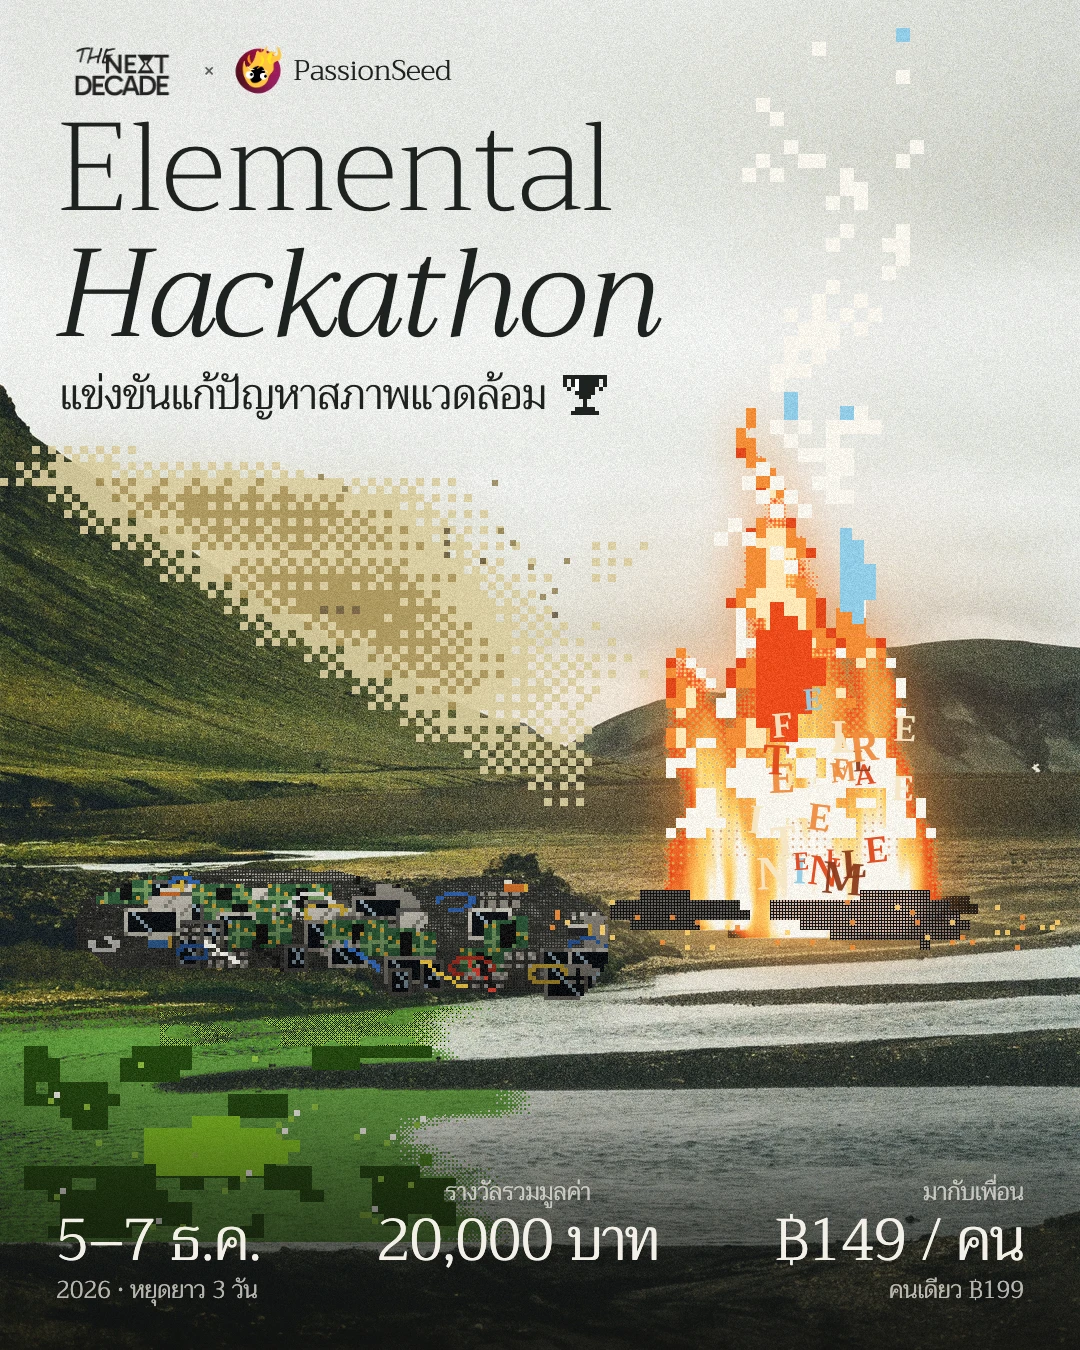
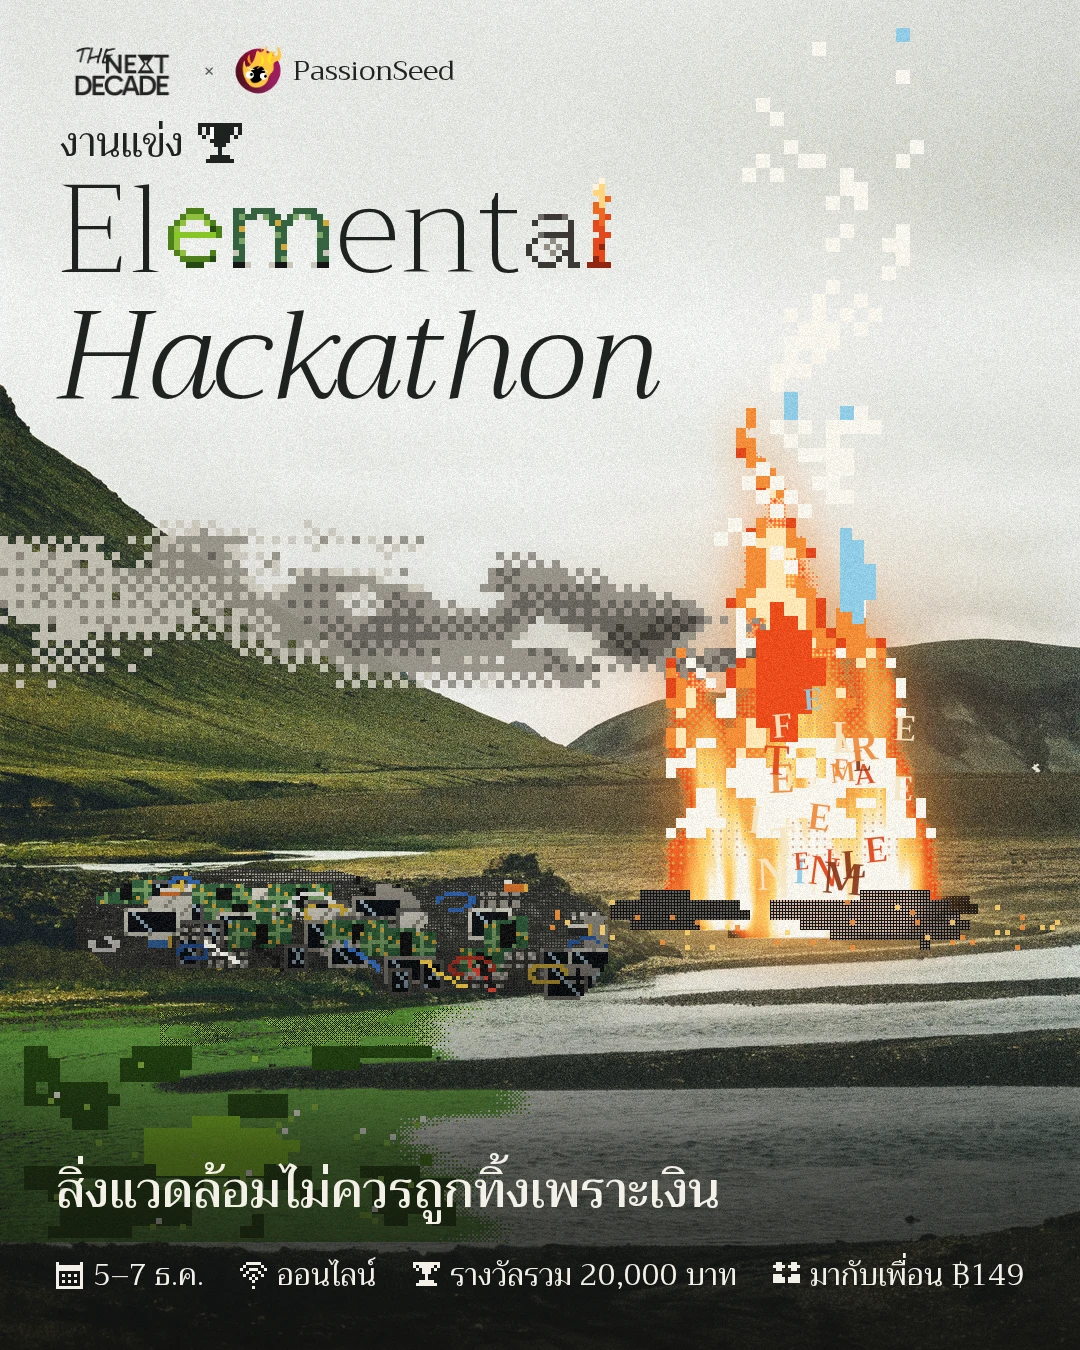
feat(hackathon): the key poster takes the latest layout: the line at the bottom over one row of facts
The line สิ่งแวดล้อมไม่ควรถูกทิ้งเพราะเงิน moves from under the title to the
dark ground at the bottom, in cream, over one row of four facts with pixel
icons (dates, online, prize total, friend price), as on the poster that
ends the teasers. The exported sheets are made again from it.

diff --git a/components/hackathon/poster/elemental/ElementalKeyPoster.tsx b/components/hackathon/poster/elemental/ElementalKeyPoster.tsx
@@ -1,6 +1,4 @@
 import { Trirong } from "next/font/google";
-import type { ReactNode } from "react";
-
 import { EL, EL_FONT } from "./brand";
 import { ELEMENTAL, prizeTotal, thaiDayRange } from "./facts";
 
@@ -15,7 +13,7 @@ import { ELEMENTAL, prizeTotal, thaiDayRange } from "./facts";
  */
 
 const trirong = Trirong({
-  weight: ["200", "300", "600"],
+  weight: ["200", "300", "400", "500", "600"],
   style: ["normal", "italic"],
   subsets: ["thai", "latin"],
   variable: "--font-trirong",
@@ -132,30 +130,32 @@ function GlyphLetter({ ch, el, on }: { ch: string; el: GlyphElement; on: boolean
   );
 }
 
-function PixelTrophy({ cell }: { cell: number }) {
-  const w = TROPHY[0].length;
-  const h = TROPHY.length;
+/** Pixel art from rows of characters, one cell per character. */
+function Pixels({ rows, fill, cell }: { rows: readonly string[]; fill: Record<string, string>; cell: number }) {
+  const w = rows[0].length;
+  const h = rows.length;
   return (
     <svg width={w * cell} height={h * cell} viewBox={`0 0 ${w} ${h}`} shapeRendering="crispEdges" aria-hidden="true" style={{ display: "block", flex: "none" }}>
-      {TROPHY.flatMap((row, y) =>
-        Array.from(row).map((c, x) => (TROPHY_FILL[c] ? <rect key={`${x}-${y}`} x={x} y={y} width={1} height={1} fill={TROPHY_FILL[c]} /> : null)),
-      )}
+      {rows.flatMap((row, y) => Array.from(row).map((c, x) => (fill[c] ? <rect key={`${x}-${y}`} x={x} y={y} width={1} height={1} fill={fill[c]} /> : null)))}
     </svg>
   );
 }
 
-/**
- * One of the three facts at the bottom: a small line, the big number, a
- * small line. Three facts, three sizes, so the eye knows what leads.
- */
-function Fact({ above, big, below, align = "left" }: { above?: ReactNode; big: ReactNode; below?: ReactNode; align?: "left" | "center" | "right" }) {
+/** The small icons in the facts row, 9x9. */
+const ICON = {
+  date: ["#.......#", "#########", "#########", "#.......#", "#.#.#.#.#", "#.......#", "#.#.#.#.#", "#.......#", "#########"],
+  online: ["..#####..", ".#.....#.", "#..###..#", "..#...#..", ".#..#..#.", "...#.#...", "....#....", ".........", "....#...."],
+  prize: ["#########", "#.#####.#", ".#.###.#.", "...###...", "....#....", "....#....", "..#####..", ".#######.", "........."],
+  friends: [".##...##.", "####.####", ".##...##.", ".........", "###...###", "####.####", "####.####", ".........", "........."],
+} as const;
+
+/** One fact in the bottom row: an icon and a few words, all the same size. */
+function Fact({ icon, children }: { icon: keyof typeof ICON; children: string }) {
   return (
-    <div className="flex flex-col" style={{ textAlign: align, color: EL.cream, fontFamily: EL_FONT.display }}>
-      {/* Both small lines always take their space, so the three big numbers share one baseline. */}
-      <span style={{ fontWeight: 300, fontSize: 24, lineHeight: "32px", color: EL.creamSoft }}>{above ?? "\u00a0"}</span>
-      <span style={{ fontWeight: 300, fontSize: 58, lineHeight: "66px", letterSpacing: "-0.01em" }}>{big}</span>
-      <span style={{ fontWeight: 300, fontSize: 24, lineHeight: "32px", color: EL.creamSoft }}>{below ?? "\u00a0"}</span>
-    </div>
+    <span className="flex items-center gap-[10px] whitespace-nowrap">
+      <Pixels rows={ICON[icon]} fill={{ "#": EL.cream }} cell={3} />
+      <span>{children}</span>
+    </span>
   );
 }
 
@@ -169,8 +169,8 @@ export function ElementalKeyPoster({ id = "elemental-key", sky = "grey", glyphs 
         <defs>
           <linearGradient id="el-key-foot" x1="0" y1="0" x2="0" y2="1">
             <stop offset="0" stopColor="#0f0f0d" stopOpacity="0" />
-            <stop offset="0.55" stopColor="#0f0f0d" stopOpacity="0.55" />
-            <stop offset="1" stopColor="#0f0f0d" stopOpacity="0.85" />
+            <stop offset="0.45" stopColor="#0f0f0d" stopOpacity="0.6" />
+            <stop offset="1" stopColor="#0f0f0d" stopOpacity="0.88" />
           </linearGradient>
           <filter id="el-key-grain" x="0" y="0" width="100%" height="100%">
             <feTurbulence type="fractalNoise" baseFrequency="0.9" numOctaves="2" seed="4" stitchTiles="stitch" />
@@ -192,7 +192,7 @@ export function ElementalKeyPoster({ id = "elemental-key", sky = "grey", glyphs 
             {l.ch}
           </text>
         ))}
-        <rect y={1040} width={W} height={H - 1040} fill="url(#el-key-foot)" />
+        <rect y={H - 360} width={W} height={360} fill="url(#el-key-foot)" />
       </svg>
 
       {/* Title lockup: series above, English title, the Thai elements as its second half */}
@@ -209,9 +209,9 @@ export function ElementalKeyPoster({ id = "elemental-key", sky = "grey", glyphs 
           </span>
         </div>
         {/* Says it's a competition, for students who don't know the word "hackathon". */}
-        <div className="mt-[18px] flex items-center gap-[14px]" style={{ fontFamily: EL_FONT.display, fontWeight: 300, fontSize: 42, lineHeight: "50px", marginLeft: 4 }}>
+        <div className="mt-[22px] flex items-center gap-[14px]" style={{ fontFamily: EL_FONT.display, fontWeight: 400, fontSize: 40, lineHeight: "50px", marginLeft: 4 }}>
           <span>งานแข่ง</span>
-          <PixelTrophy cell={4} />
+          <Pixels rows={TROPHY} fill={TROPHY_FILL} cell={4} />
         </div>
         <h1 className="m-0" style={{ fontFamily: EL_FONT.display, lineHeight: 1.02, letterSpacing: "-0.01em" }}>
           <span className="block" style={{ fontWeight: 200, fontSize: 124 }}>
@@ -223,17 +223,21 @@ export function ElementalKeyPoster({ id = "elemental-key", sky = "grey", glyphs 
             Hackathon
           </span>
         </h1>
-        {/* The line under the title (Bunyasit, 2026-11-20). */}
-        <div className="mt-[8px]" style={{ fontFamily: EL_FONT.display, fontWeight: 300, fontSize: 42, lineHeight: "56px", marginLeft: 4 }}>
-          สิ่งแวดล้อมไม่ควรถูกทิ้งเพราะเงิน
-        </div>
       </div>
 
-      {/* Three facts: when, the prize, the price with the friend deal leading */}
-      <div className="absolute inset-x-[56px] bottom-[44px] flex items-end justify-between">
-        <Fact big={thaiDayRange()} below={`${ELEMENTAL.startDate.slice(0, 4)} · หยุดยาว ${ELEMENTAL.days} วัน`} />
-        <Fact align="center" above="รางวัลรวมมูลค่า" big={`${prizeTotal()} บาท`} />
-        <Fact align="right" above="มากับเพื่อน" big={`฿${ELEMENTAL.groupPriceBaht} / คน`} below={`คนเดียว ฿${ELEMENTAL.priceBaht}`} />
+      {/*
+        The line on the dark ground at the bottom, in cream (Bunyasit,
+        2026-11-20), then one quiet row of facts: when, online, the prize and
+        the friend price.
+      */}
+      <div className="absolute inset-x-[56px] bottom-[52px]" style={{ fontFamily: EL_FONT.display, color: EL.cream }}>
+        <div style={{ fontWeight: 500, fontSize: 50, lineHeight: "64px", marginBottom: 30 }}>สิ่งแวดล้อมไม่ควรถูกทิ้งเพราะเงิน</div>
+        <div className="flex items-center justify-between" style={{ fontWeight: 400, fontSize: 30 }}>
+          <Fact icon="date">{thaiDayRange()}</Fact>
+          <Fact icon="online">ออนไลน์</Fact>
+          <Fact icon="prize">{`รางวัลรวม ${prizeTotal()} บาท`}</Fact>
+          <Fact icon="friends">{`มากับเพื่อน ฿${ELEMENTAL.groupPriceBaht}`}</Fact>
+        </div>
       </div>
 
       {/* Grain over the type too, so it sits in the same film */}
